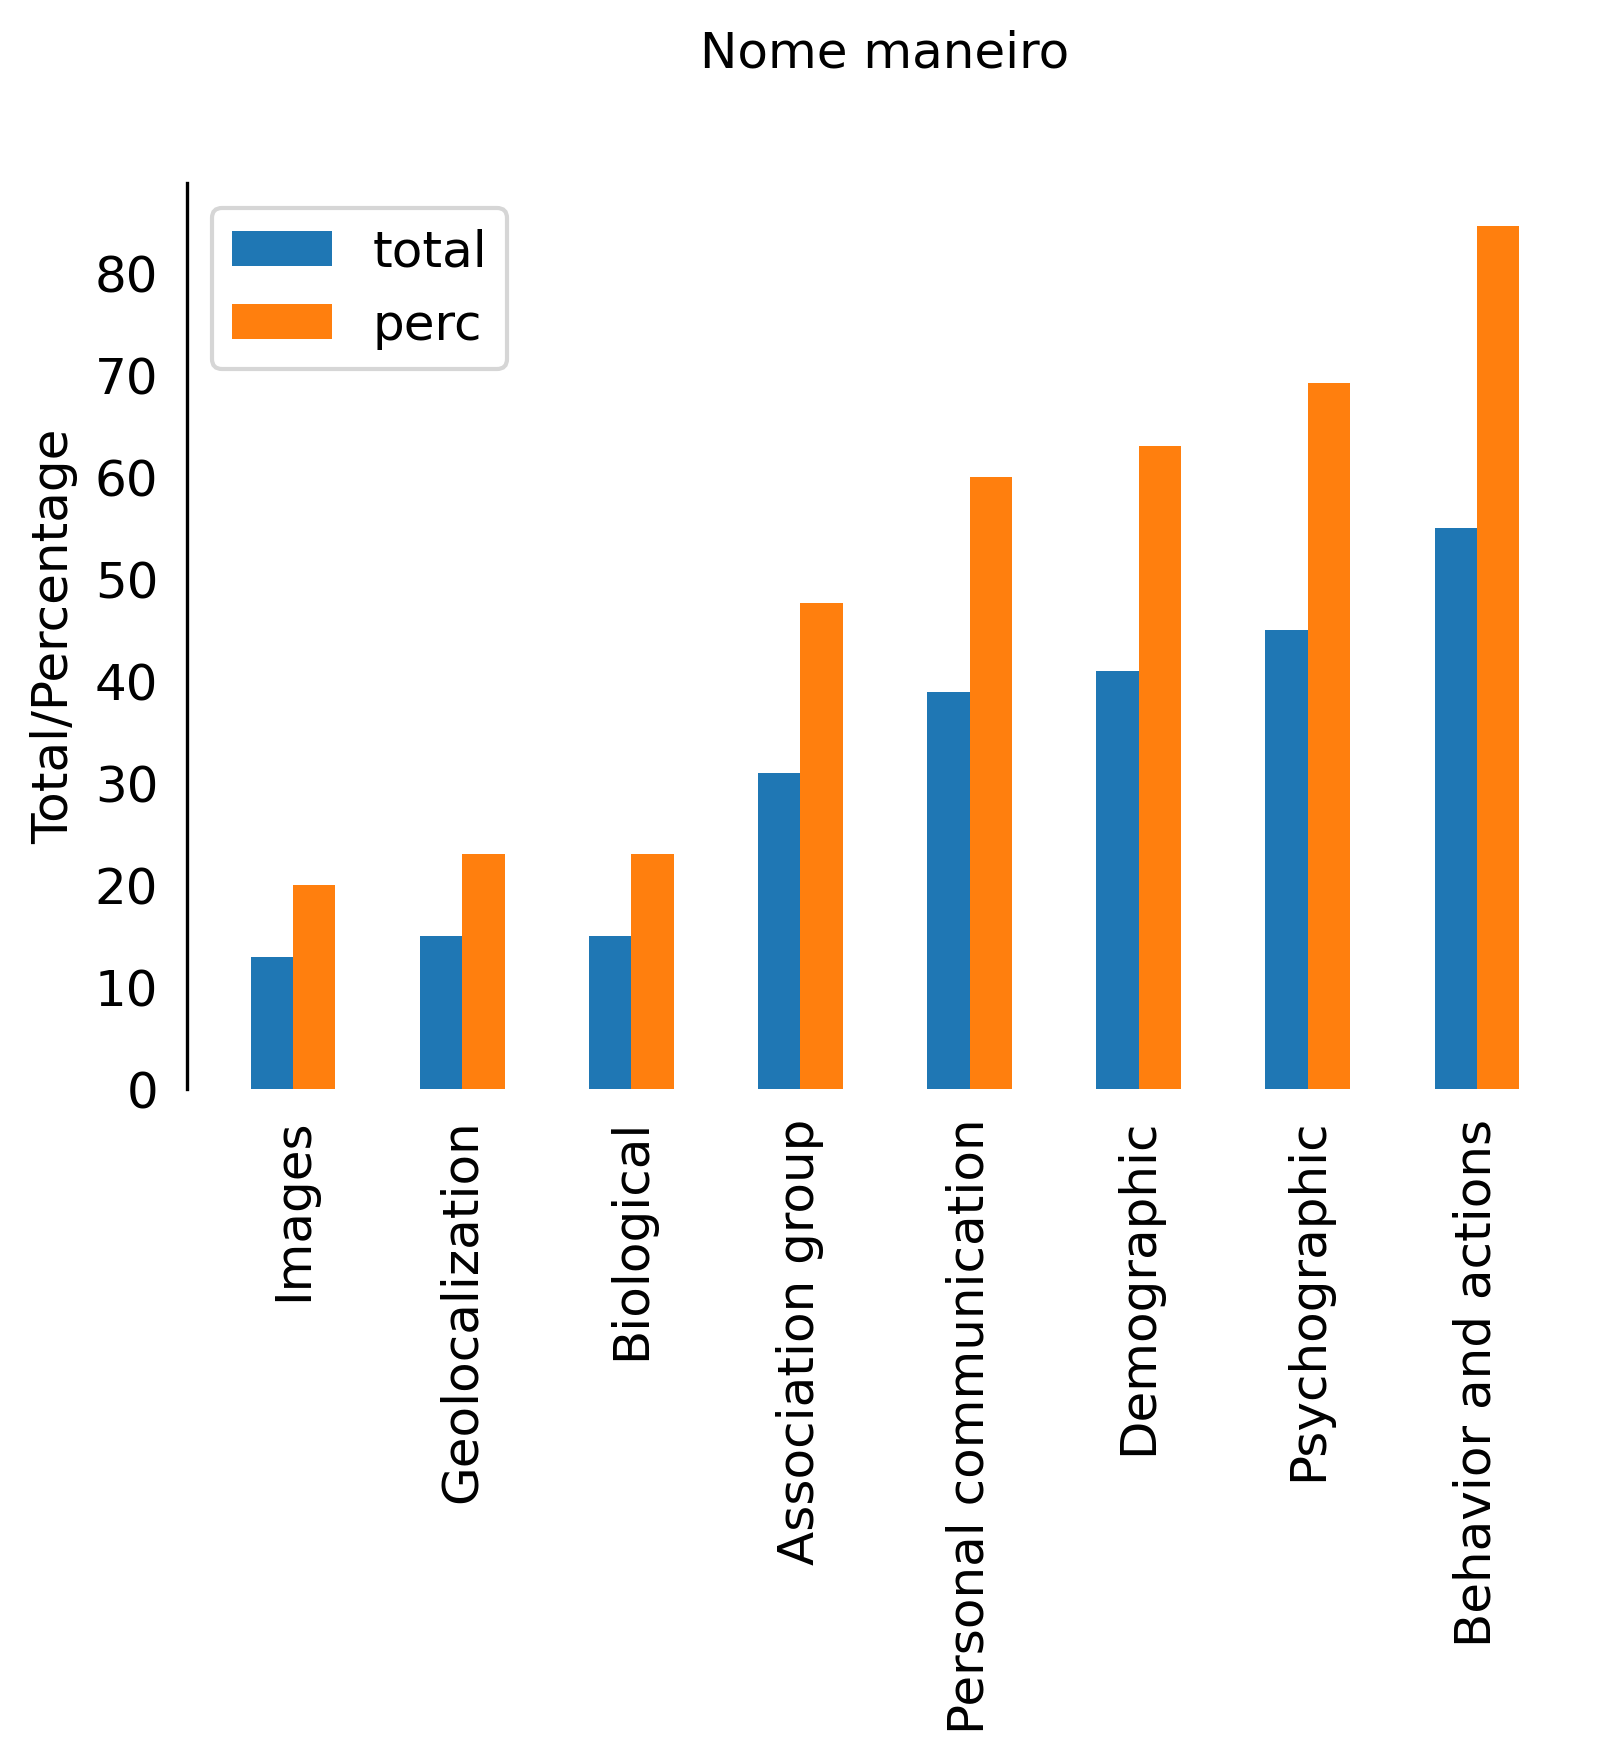
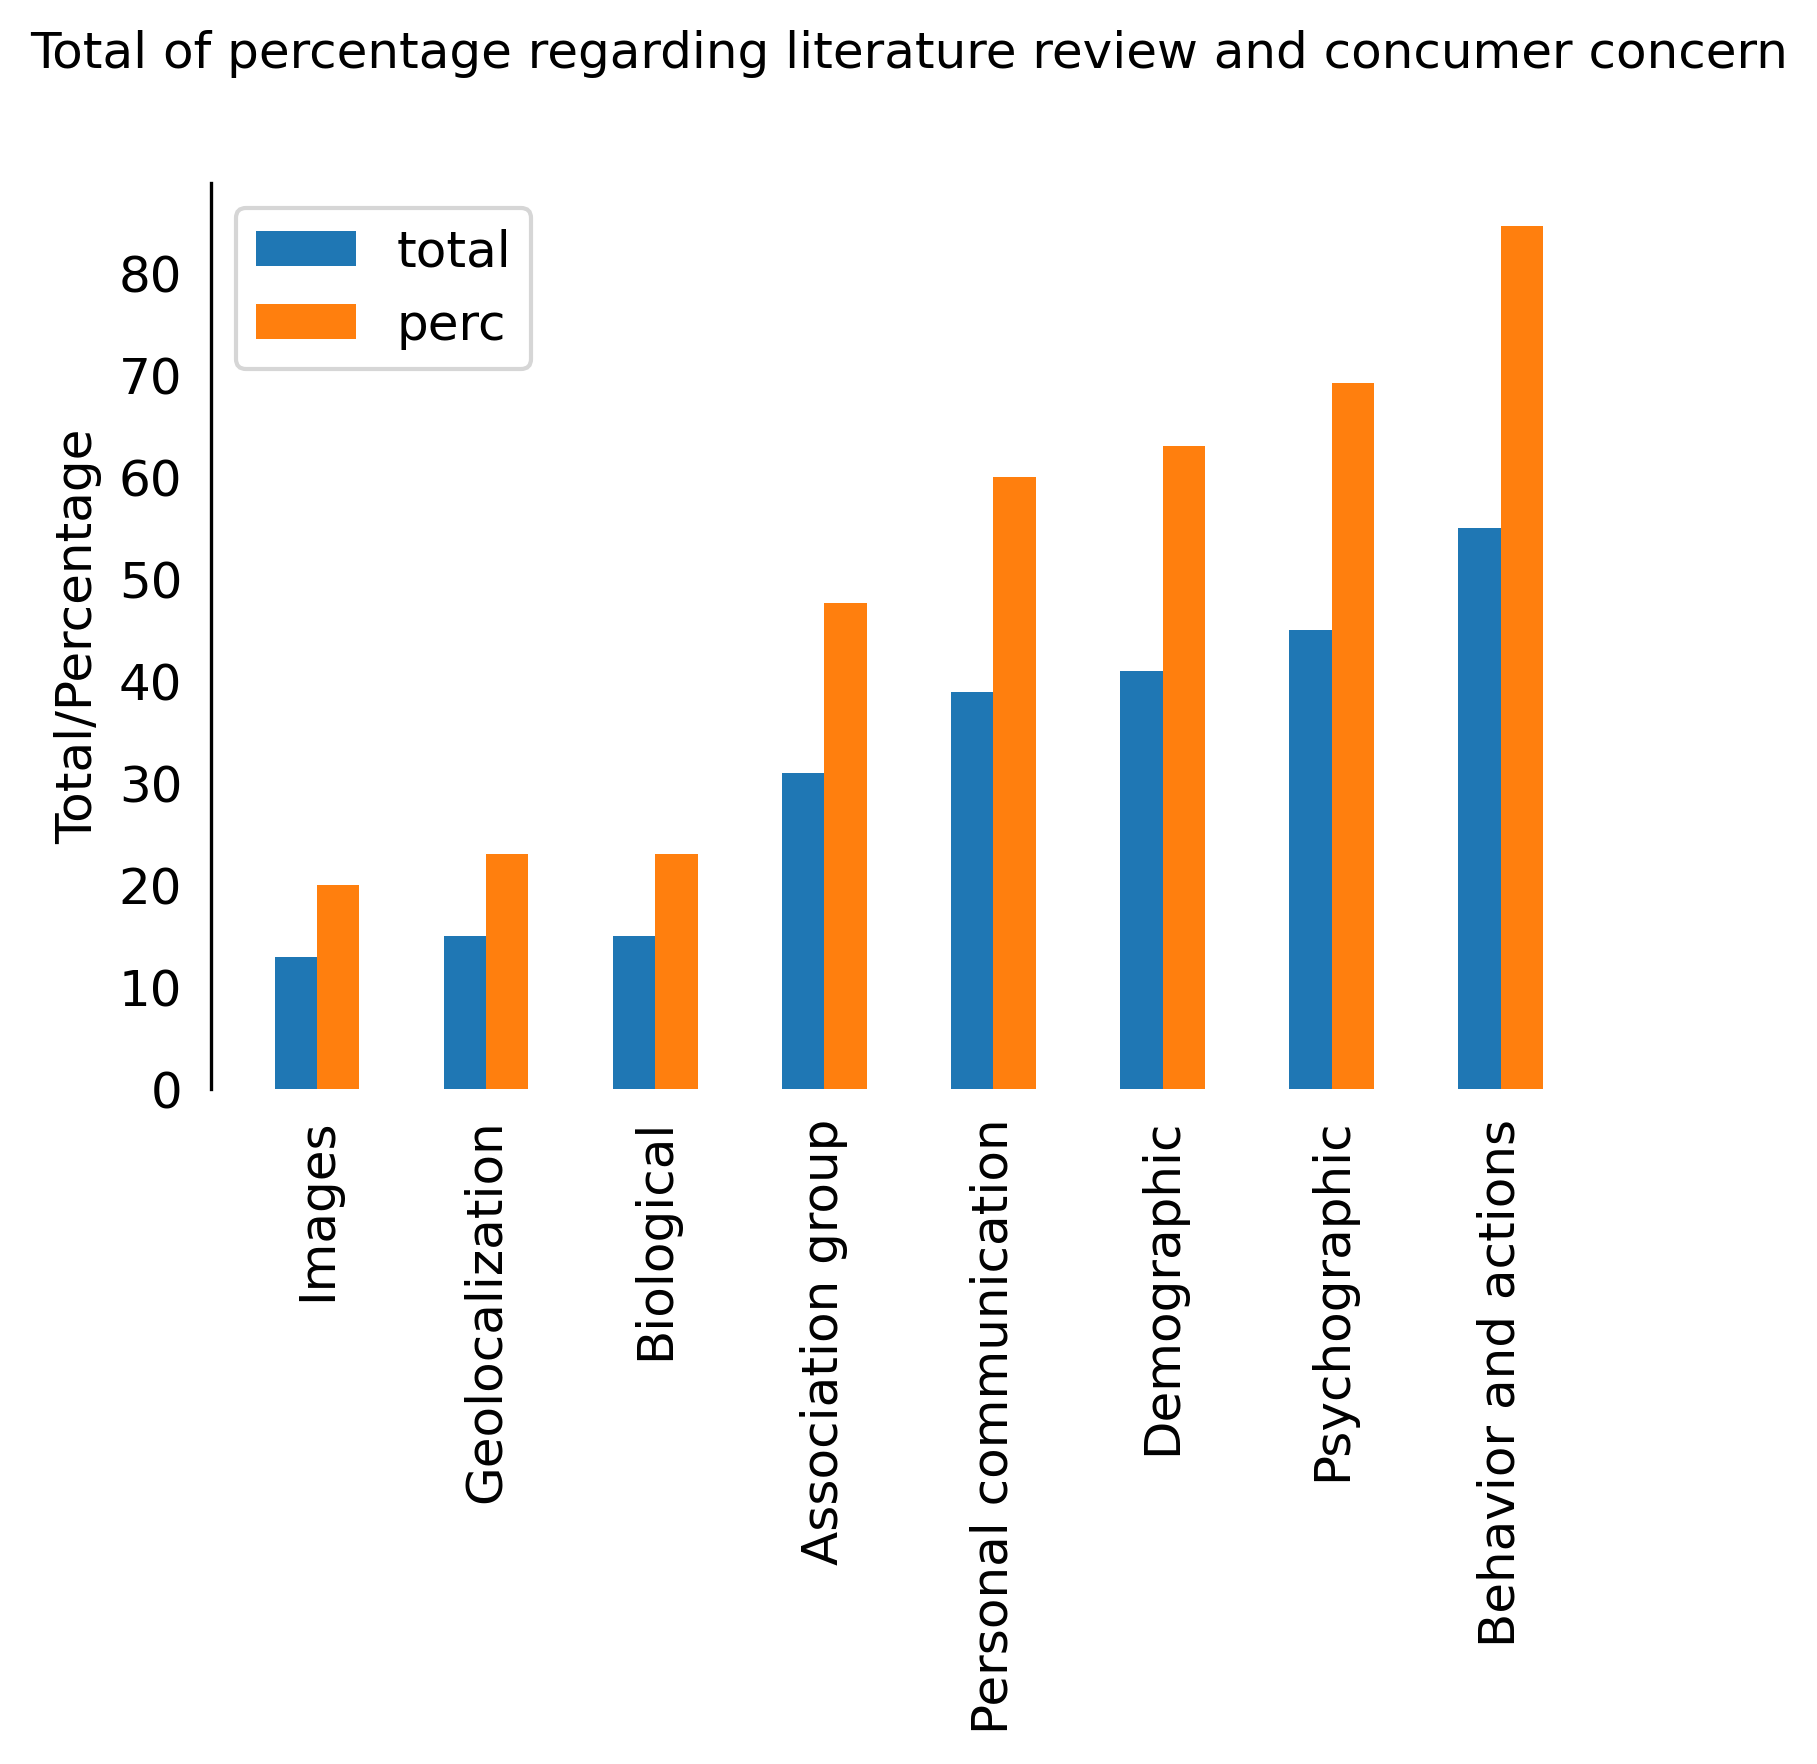
Atualização dos nomes dos gráficos

diff --git a/continuum/continuum.py b/continuum/continuum.py
@@ -96,12 +96,12 @@ du: pd.DataFrame = pd.DataFrame({'total': dfdu.sum(), 'perc':(dfdu.sum().values 
 
 def main():
     ## Barplots
-    barplots(dt, 'barplot_datatype', title='Nome maneiro')
-    barplots(du, 'barplot_datause', title='Total of percentage  regarding literature review and consumer concern')
+    barplots(dt, 'barplot_datatype', title='Total of percentage regarding literature review and concumer concern')
+    barplots(du, 'barplot_datause', title='Total of percentage regarding literature review and consumer concern')
 
     ## Correlation plot
     correlation(dfdt, 'correlation_datatype', title='Correlation of consumer concern regarding the different types of personal data')
-    correlation(dfdu, 'correlation_datause', title='Correlation of consumer concern regarding the different types of personal data')
+    correlation(dfdu, 'correlation_datause', title='Correlation of consumer concern regarding the different uses of personal data')
 
 if __name__ == "__main__":
     main()
